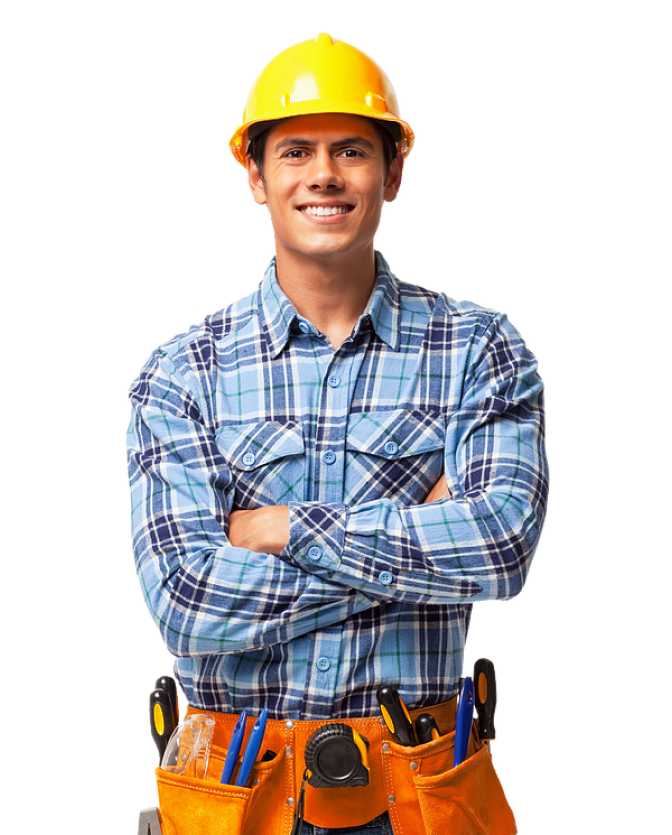
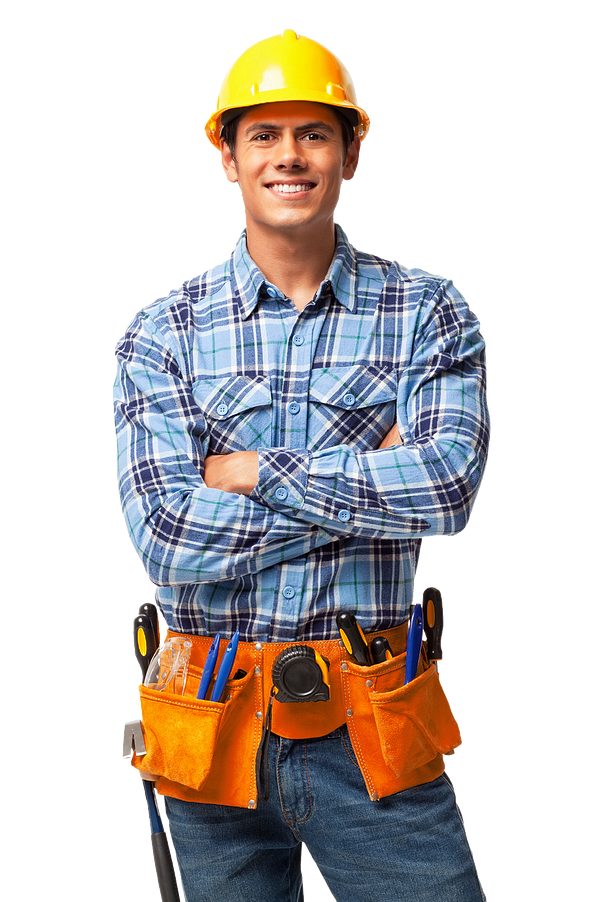
edit

diff --git a/app/css/main.css b/app/css/main.css
@@ -524,7 +524,9 @@ h1 {
 .main-home__content {
   padding: 0 0 0 28px;
   max-width: 575px;
-  width: 100%; }
+  width: 100%;
+  position: relative;
+  z-index: 1; }
   .main-home__content .box-text {
     line-height: 24px; }
 
@@ -540,7 +542,7 @@ h1 {
           align-items: center;
   -ms-flex-wrap: wrap;
       flex-wrap: wrap;
-  z-index: 1; }
+  z-index: 2; }
   .main-menu li {
     margin: 0 45px 0 0; }
     .main-menu li a {
@@ -637,7 +639,8 @@ h1 {
           justify-content: center;
   position: absolute;
   right: 0;
-  bottom: 43px; }
+  bottom: 43px;
+  z-index: 1; }
 
 .catalog {
   margin: 62px 0 36px; }
@@ -1314,7 +1317,10 @@ strong {
       -ms-flex-pack: center;
           justify-content: center;
   position: relative;
-  margin: -60px -40px 0 -133px; }
+  margin: -60px -40px 0 -133px;
+  max-height: 835px; }
+  .help-img img {
+    max-height: 100%; }
   .help-img:before {
     content: '';
     position: absolute;
@@ -1341,7 +1347,8 @@ strong {
   .help-content p {
     max-width: 476px;
     width: 100%;
-    margin: 0 0 56px; }
+    margin: 0 0 56px;
+    font-size: 20px; }
   .help-content .form {
     display: -webkit-box;
     display: -ms-flexbox;
@@ -1487,9 +1494,56 @@ strong {
     width: auto; } }
 
 @media only screen and (max-width: 1200px) {
-  /**/ }
+  .phone {
+    margin: 0 20px 0 65px; }
+  .main-home__content {
+    max-width: 530px;
+    padding: 0; }
+  .main-home__slider-wrapper {
+    max-width: 377px; }
+  .main-home__slider-wrapper:after {
+    right: -36px; }
+  .main-home__slider-wrapper:before {
+    width: 823px;
+    height: 631px;
+    right: -14px; }
+  .help-img {
+    max-width: 565px;
+    margin: -55px 0 0 -39px; }
+    .help-img:before {
+      width: 860px; }
+  .help-content {
+    padding: 58px 0 45px;
+    width: 100%;
+    max-width: 500px;
+    margin: 0 0 0 auto; } }
 
 /* Medium Devices, Desktops */
+@media only screen and (max-width: 1100px) {
+  .help-content h2 {
+    margin: 0 0 23px; }
+  .help-content p {
+    margin: 0 0 34px; }
+  .help-content .form {
+    margin: 0 auto;
+    max-width: 320px;
+    -webkit-box-orient: vertical;
+    -webkit-box-direction: normal;
+        -ms-flex-direction: column;
+            flex-direction: column;
+    -webkit-box-align: center;
+        -ms-flex-align: center;
+            align-items: center; }
+  .help-content .form-group {
+    max-width: none; }
+    .help-content .form-group label:last-child {
+      -webkit-box-ordinal-group: 0;
+          -ms-flex-order: -1;
+              order: -1; }
+  .help-content .consent {
+    text-align: center;
+    margin: 0 auto 35px; } }
+
 @media only screen and (max-width: 992px) {
   /**/ }
 

diff --git a/app/sass/_media.sass b/app/sass/_media.sass
@@ -8,9 +8,6 @@
     max-width: 280px
 
 
-
-
-
 @media only screen and (max-width : 1820px)
   .home-left .home-img
     margin: 0 20px 0 0
@@ -122,10 +119,59 @@
     width: auto
 
 @media only screen and (max-width : 1200px)
-	/**/
+  .phone
+    margin: 0 20px 0 65px
+
+  .main-home__content
+    max-width: 530px
+    padding: 0
+
+  .main-home__slider-wrapper
+    max-width: 377px
+
+  .main-home__slider-wrapper:after
+    right: -36px
+
+  .main-home__slider-wrapper:before
+    width: 823px
+    height: 631px
+    right: -14px
+
+  .help-img
+    max-width: 565px
+    margin: -55px 0 0 -39px
+    &:before
+      width: 860px
+
+  .help-content
+    padding: 58px 0 45px
+    width: 100%
+    max-width: 500px
+    margin: 0 0 0 auto
 
 
 /* Medium Devices, Desktops */
+@media only screen and (max-width : 1100px)
+  .help-content
+    h2
+      margin: 0 0 23px
+    p
+      margin: 0 0 34px
+    .form
+      margin: 0 auto
+      max-width: 320px
+      flex-direction: column
+      align-items: center
+    .form-group
+      max-width: none
+      label
+        &:last-child
+          order: -1
+    .consent
+      text-align: center
+      margin: 0 auto 35px
+
+
 @media only screen and (max-width : 992px)
 	/**/
 

diff --git a/app/artu.html b/app/artu.html
@@ -1988,19 +1988,22 @@
                         <input type="text" placeholder="ФИО" name="name">
                     </label>
                     <label>
-                        <input type="text" placeholder="Телефон" name="phone">
+                        <input type="text" placeholder="Укажите город" name="city">
                     </label>
-                    <button type="submit" class="btn btn-accent"><span>Отправить</span></button>
                 </div>
 
                 <div class="form-group">
                     <label>
-                        <input type="text" placeholder="Укажите город" name="city">
+                        <input type="text" placeholder="Телефон" name="phone">
                     </label>
+
+
                     <div class="consent">
                         Отправляя форму, Вы соглашаетесь с <a href="#">Политикой конфиденциальности</a> сайта.
                     </div>
                 </div>
+
+                <button type="submit" class="btn btn-accent"><span>Отправить</span></button>
             </form>
         </div>
     </div>

diff --git a/app/sass/main.sass b/app/sass/main.sass
@@ -488,7 +488,8 @@ h1
   padding: 0 0 0 28px
   max-width: 575px
   width: 100%
-
+  position: relative
+  z-index: 1
   .box-text
     line-height: 24px
 
@@ -499,7 +500,7 @@ h1
   display: flex
   align-items: center
   flex-wrap: wrap
-  z-index: 1
+  z-index: 2
 
   li
     margin: 0 45px 0 0
@@ -597,6 +598,7 @@ h1
   position: absolute
   right: 0
   bottom: 43px
+  z-index: 1
 
 //catalog
 .catalog
@@ -1191,6 +1193,9 @@ strong
   justify-content: center
   position: relative
   margin: -60px -40px 0 -133px
+  max-height: 835px
+  img
+    max-height: 100%
   &:before
     content: ''
     position: absolute
@@ -1217,6 +1222,7 @@ strong
     max-width: 476px
     width: 100%
     margin: 0 0 56px
+    font-size: 20px
   .form
     display: flex
     align-items: flex-start
